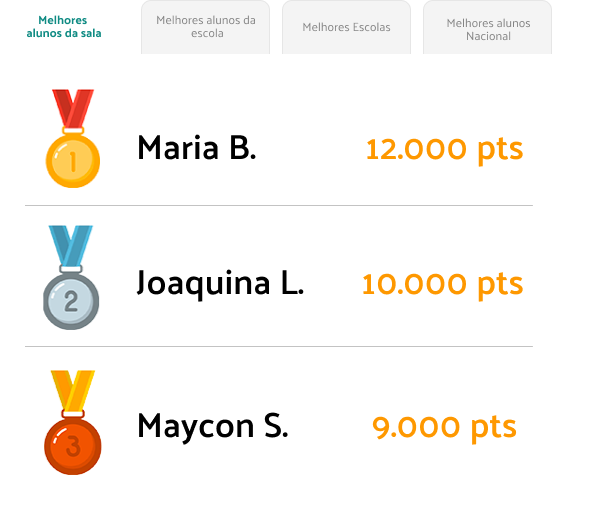
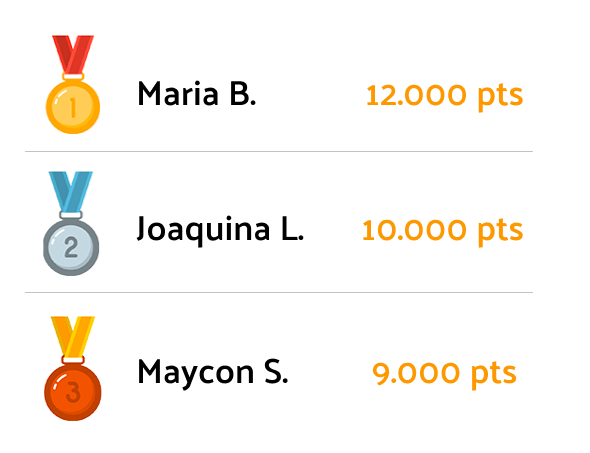
alterando imagem ranking

diff --git a/index.html b/index.html
@@ -75,7 +75,7 @@
                 <h3>aprenda</h3>
                 <h2>Divertindo</h2>
                 <p>Conclua missões teóricas como responder questionários e realizar pesquisas, missões praticas como
-                   escanear qr codes na escola com informações sobre as matérias</p>
+                    escanear qr codes na escola com informações sobre as matérias</p>
                 <button><a href="./missoes.html">Ver missões</a></button>
             </div>
             <img src="./img/Missoes.jpeg" alt="">
@@ -89,14 +89,16 @@
             <h4>Se divirta com seus amigos neste card game</h4>
         </div>
         <div class="campo-cards">
-                <div id="cards">
-                    <img class="selected" src="./img/Ramses II.png" alt="">
-                    <img src="./img/Leo da Vinci.png" alt="">
-                    <img src="./img/Napoleão Bonaparte.png" alt="">
-                </div>
+            <div id="cards">
+                <img class="selected" src="./img/Ramses II.png" alt="">
+                <img src="./img/Leo da Vinci.png" alt="">
+                <img src="./img/Napoleão Bonaparte.png" alt="">
+            </div>
             <div class="cartas-texto">
-                <p>No diplomet você ganha cartas por cumprir suas missões para poder jogar um incrível card game exclusivo.</p>
-                <p>Complete suas missões para ter acesso a este card game exclusivo, e aprenda enquanto se diverte com seus amigos.</p>
+                <p>No diplomet você ganha cartas por cumprir suas missões para poder jogar um incrível card game
+                    exclusivo.</p>
+                <p>Complete suas missões para ter acesso a este card game exclusivo, e aprenda enquanto se diverte com
+                    seus amigos.</p>
                 <div class="ver-cartas">
                     <!-- <button>Ver mais cartas</button> -->
                 </div>
@@ -113,7 +115,7 @@
                         não consegue ser um dos primeiros</p>
                     <!-- <input type="text" placeholder="email@dominio.com"> -->
                     <div></div>
-                    <!-- <button> Ver pontuação</button> -->
+                    <button><a href='./ranking.html'> Ver Ranking Completo</a></button>
                 </div>
                 <!-- <div class="pontuacao-usuario">
                     <label for="nome">nome: </label>
@@ -124,7 +126,7 @@
                 </div> -->
             </div>
             <div class="ranking-img">
-                <a href="./ranking.html"><img src="./img/Tabela Ranking.png" alt=""></a>
+                <img src="./img/Tabela Ranking.png" alt="">
             </div>
         </div>
     </section>
